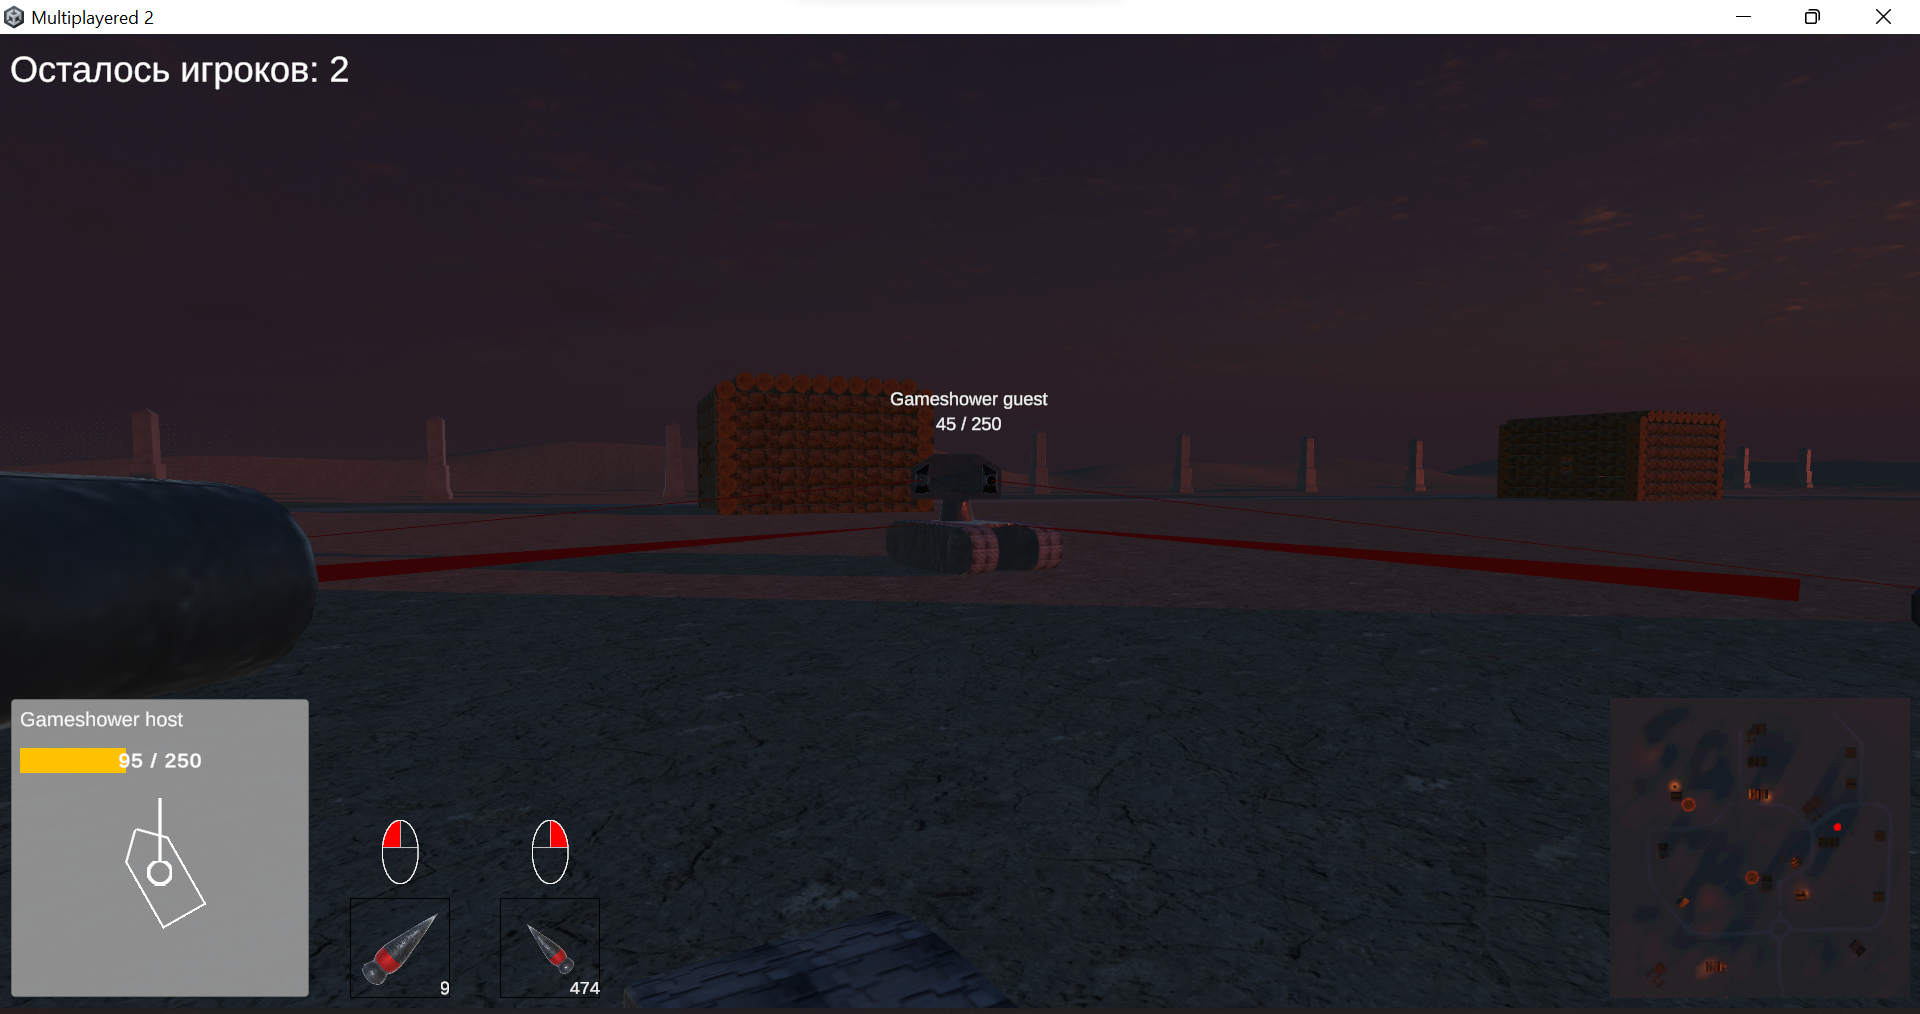
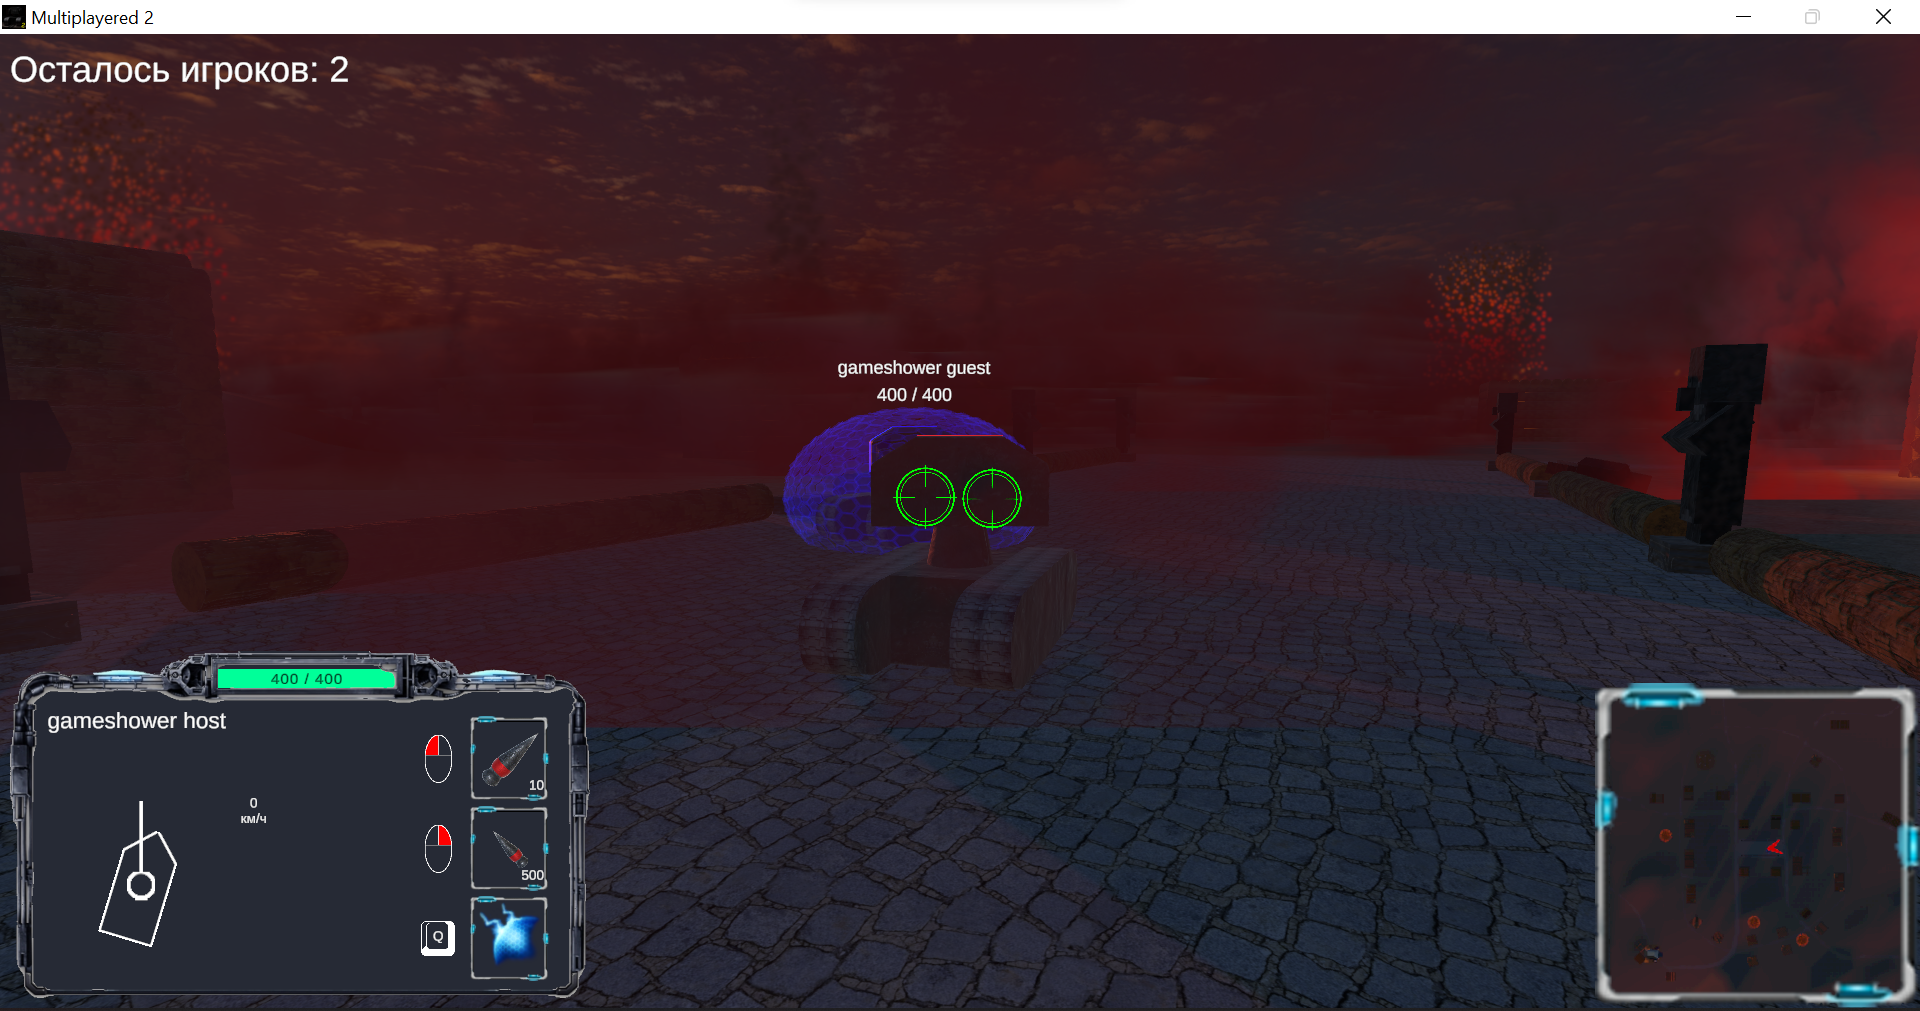
updated multiplayered 2 page

diff --git a/multiplayered2.html b/multiplayered2.html
@@ -33,15 +33,18 @@
                             Вы управляете одним из 8 роботов. Ваша цель - остаться единственным уцелевшим роботом в деревне. Для этого необходимо победить остальных игроков, управляющих другими роботами.
                         </p>
                         <p>
-                            Робот имеет 250 очков прочности, а также следующее вооружение:
+                            Робот имеет 400 очков прочности и следующее вооружение:
                             <ul>
-                                <li>Пулемет, стреляющий мелкими пулями. Интервал между выстрелами небольшой, но из-за технического несовершенства пулемет может выпустить максимум 6 пуль за одну очередь - после этого ему требуется немного остыть. <i>Пули наносят по 5 ед. урона</i>;</li>
+                                <li>Скорострельный пулемет, стреляющий мелкими пулями. <i>Пули наносят по 5 ед. урона</i>;</li>
                                 <li>Пушка, стреляющая снарядами. Перезарядка - 5 секунд, наносимый урон - 75 ед.</li>
                             </ul>
-                            Прицеливание осуществляется с помощью двух лазеров - для каждого орудия свой лазер. На данный момент лазеры имеют очень низкую мощность, поэтому прицельный огонь на большом расстоянии крайне неэффективен - в том числе из-за отсутствия системы захвата целей и снайперского режима.
+                            Также у робота имеется система защиты - щит, поглощающий любой урон в течение короткого времени. Это идеальный инструмент для быстрой атаки на других роботов или побега в критической ситуации. Щит перезаряжается довольно долго, поэтому используйте его с умом.
                         </p>
                         <p>
-                            Роботы-конкуренты - не единственное, что вас ждет в этой деревне. В этих местах часто встречаются огненные смерчи, которые сжигают все на своем пути. По неизвестной причине они притягиваются к металлическим объектам, поэтому держитесь от них подальше: подъехав слишком близко, вы рискуете стать целью для смерча.
+                            Роботы-конкуренты - не единственная проблема в этой деревне. Деревня окутана зловещим красным туманом, из-за которого сильно снижается видимость. Однако это не помешает вам увидеть противников: в целях тестирования роботы оснащены ярко светящимися полосами.
+                        </p>
+                        <p>
+                            Также в этих местах часто встречаются огненные смерчи, которые сжигают все на своем пути. По неизвестной причине они притягиваются к металлическим объектам, поэтому держитесь от них подальше: подъехав слишком близко, вы рискуете стать целью для смерча.
                         </p>
                         <p>
                             Находясь рядом со смерчем, вы будете получать по 5 ед. урона каждые 0.25 секунды (20 ед. урона в секунду). Если вы окажетесь внутри него, то урон увеличится до 10 ед. каждые 0.25 секнуды (40 ед. урона в секунду).
@@ -55,7 +58,8 @@
                             <li>ЛКМ - стрельба из пушки;</li>
                             <li>ПКМ - стрельба из пулемета;</li>
                             <li>Shift - переключение камеры;</li>
-                            <li>F - переворот робота, если он перевернулся.</li>
+                            <li>F - переворот робота, если он перевернулся;</li>
+                            <li>Q - активация щита.</li>
                         </ul>
                     </li>
                     <li class="list-group-item">
